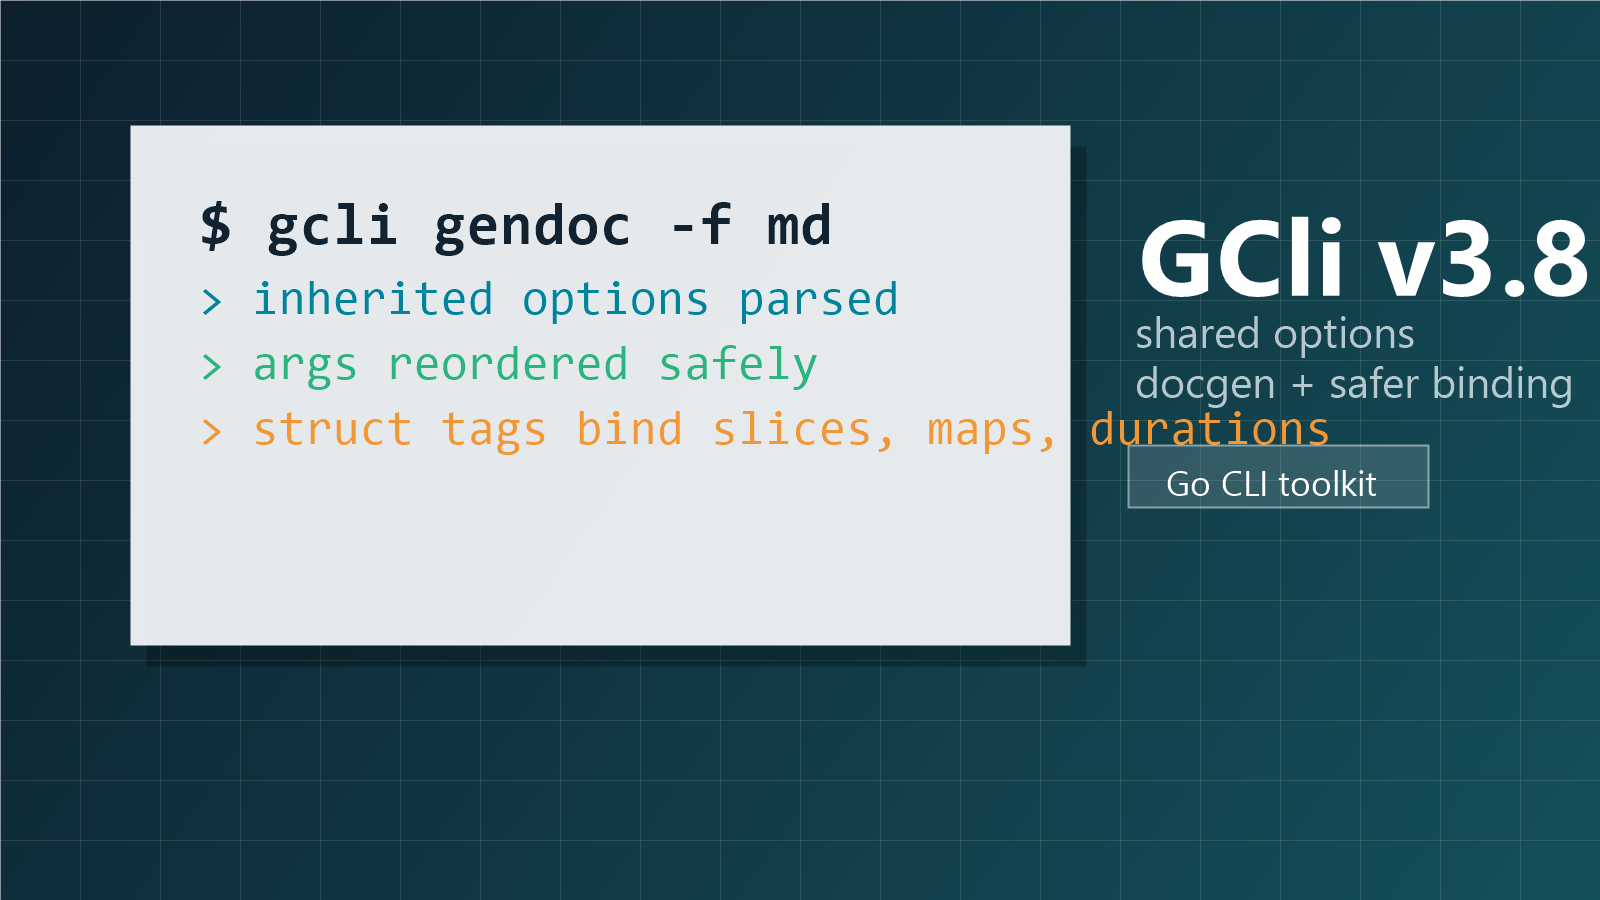
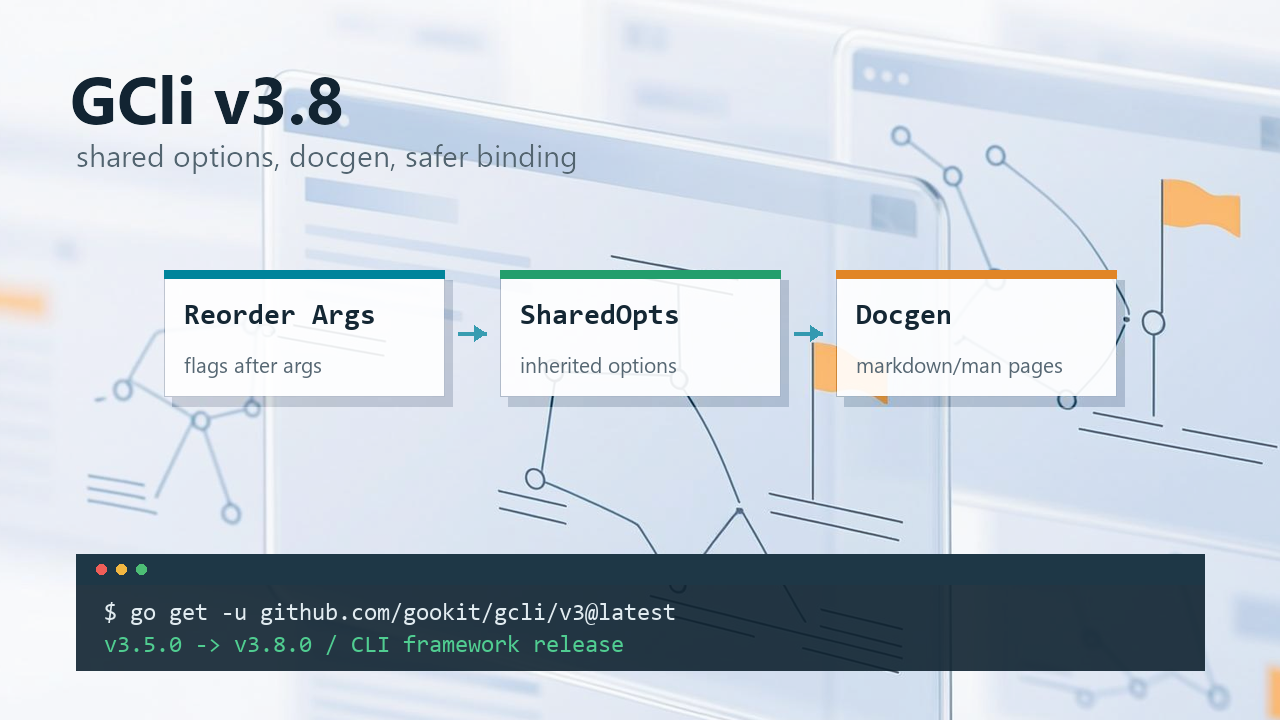
Update GLM poster generation and home header art

diff --git a/.agents/skills/glm-blog-poster/scripts/make_poster.py b/.agents/skills/glm-blog-poster/scripts/make_poster.py
@@ -70,12 +70,36 @@ def validate_glm_size(value: str) -> None:
         raise SystemExit(f"--glm-size exceeds 2^22 pixels, got: {value}")
 
 
-def request_glm_image(prompt: str, size: str, out_bg: Path) -> Image.Image:
+def parse_crop(value: str) -> tuple[int, int, int, int]:
+    try:
+        parts = [int(part.strip()) for part in value.split(",")]
+    except ValueError as err:
+        raise SystemExit(f"--bg-crop must use left,top,right,bottom pixels, got: {value}") from err
+    if len(parts) != 4 or any(part < 0 for part in parts):
+        raise SystemExit(f"--bg-crop must use four non-negative pixel values, got: {value}")
+    return parts[0], parts[1], parts[2], parts[3]
+
+
+def crop_background(img: Image.Image, crop: tuple[int, int, int, int]) -> Image.Image:
+    left, top, right, bottom = crop
+    if not any(crop):
+        return img
+    if left + right >= img.width or top + bottom >= img.height:
+        raise SystemExit(f"--bg-crop is larger than source image size {img.size}")
+    return img.crop((left, top, img.width - right, img.height - bottom))
+
+
+def request_glm_image(prompt: str, size: str, out_bg: Path, watermark_enabled: bool) -> Image.Image:
     token = os.getenv("BIGMODEL_API_KEY")
     if not token:
         raise SystemExit("BIGMODEL_API_KEY is missing. Put it in project .env or the shell environment.")
 
-    payload = json.dumps({"model": "glm-image", "prompt": prompt, "size": size}).encode("utf-8")
+    payload = json.dumps({
+        "model": "glm-image",
+        "prompt": prompt,
+        "size": size,
+        "watermark_enabled": watermark_enabled,
+    }).encode("utf-8")
     req = urllib.request.Request(
         API_URL,
         data=payload,
@@ -166,6 +190,7 @@ def overlay(img: Image.Image, args: argparse.Namespace, size: tuple[int, int]) -
     draw.text((76, 134), args.subtitle, font=sub_font, fill=(82, 100, 112, 255))
 
     flow = [part.strip() for part in args.flow.split("|") if part.strip()]
+    flow_subtitles = [part.strip() for part in args.flow_subtitles.split("|") if part.strip()]
     card_w, card_h, gap = 280, 126, 56
     total = len(flow) * card_w + max(0, len(flow) - 1) * gap
     x = max(54, (w - total) // 2)
@@ -176,7 +201,7 @@ def overlay(img: Image.Image, args: argparse.Namespace, size: tuple[int, int]) -
         x2 = x1 + card_w
         draw_card(draw, (x1, y, x2, y + card_h), colors[idx % len(colors)])
         draw.text((x1 + 20, y + 32), label, font=mono_bold, fill=(20, 39, 52, 255))
-        sub = ["current writer", "rotated file", "compressed", "cleaned"][min(idx, 3)]
+        sub = flow_subtitles[idx] if idx < len(flow_subtitles) else ["current writer", "rotated file", "compressed", "cleaned"][min(idx, 3)]
         draw.text((x1 + 20, y + 80), sub, font=small, fill=(86, 103, 115, 255))
         if idx < len(flow) - 1:
             ax1 = x2 + 14
@@ -199,9 +224,10 @@ def overlay(img: Image.Image, args: argparse.Namespace, size: tuple[int, int]) -
 def main() -> int:
     parser = argparse.ArgumentParser(description="Generate a GLM blog poster with deterministic local text overlay.")
     parser.add_argument("--prompt", help="Prompt for GLM background. Ask for no text/logos/watermarks.")
-    parser.add_argument("--title", required=True)
+    parser.add_argument("--title", default="")
     parser.add_argument("--subtitle", default="")
     parser.add_argument("--flow", default="app.log|app.20260624.log|app.20260624.log.gz")
+    parser.add_argument("--flow-subtitles", default="")
     parser.add_argument("--command", default="filecleaner --dry-run -c filecleaner.json")
     parser.add_argument("--note", default="keep 7 days / max 20 backups")
     parser.add_argument("--size", default="1280x720", help="Final poster size.")
@@ -213,6 +239,9 @@ def main() -> int:
     parser.add_argument("--out", required=True)
     parser.add_argument("--bg-out", default="output/imagegen/poster-bg.png")
     parser.add_argument("--from-bg", help="Reuse an existing raw background image and only redraw the local text overlay.")
+    parser.add_argument("--bg-crop", default="0,0,0,0", help="Crop raw background before overlay: left,top,right,bottom pixels.")
+    parser.add_argument("--background-only", action="store_true", help="Save the cropped background as --out without local text overlay.")
+    parser.add_argument("--watermark", action="store_true", help="Enable GLM watermark. Default is disabled.")
     parser.add_argument("--local-only", action="store_true", help="Skip GLM and use a generated local background.")
     args = parser.parse_args()
 
@@ -220,6 +249,7 @@ def main() -> int:
     load_env(root)
     width, height = parse_size(args.size, "--size")
     size = (width, height)
+    bg_crop = parse_crop(args.bg_crop)
     out = Path(args.out)
     bg_out = Path(args.bg_out)
 
@@ -233,9 +263,15 @@ def main() -> int:
         if not args.prompt:
             raise SystemExit("--prompt is required unless --from-bg or --local-only is used.")
         validate_glm_size(args.glm_size)
-        bg = request_glm_image(args.prompt, args.glm_size, bg_out)
+        bg = request_glm_image(args.prompt, args.glm_size, bg_out, args.watermark)
 
-    final = overlay(bg, args, size)
+    bg = crop_background(bg, bg_crop)
+    if args.background_only:
+        final = cover_crop(bg, size)
+    else:
+        if not args.title:
+            raise SystemExit("--title is required unless --background-only is used.")
+        final = overlay(bg, args, size)
     out.parent.mkdir(parents=True, exist_ok=True)
     final.save(out)
     print(out)

diff --git a/.agents/skills/glm-blog-poster/SKILL.md b/.agents/skills/glm-blog-poster/SKILL.md
@@ -2,12 +2,14 @@
 name: glm-blog-poster
 description: Generate reusable technical blog poster images with GLM Image backgrounds plus local deterministic text overlays. Use when creating article cover images, blog hero posters, release post graphics, or technical diagrams that need AI visual polish but accurate titles, commands, file names, or flow labels.
 metadata:
-  version: 0.1.0
+  version: 0.2.0
 ---
 
 # GLM Blog Poster
 
 Use `scripts/make_poster.py` to generate a background with BigModel `glm-image`, then overlay accurate text locally with Pillow. This keeps model-generated visual texture separate from exact article text, commands, package names, and file names.
+
+GLM requests send `watermark_enabled: false` by default. Pass `--watermark` only when a watermark is explicitly wanted.
 
 ## Workflow
 
@@ -36,6 +38,7 @@ python .agents/skills/glm-blog-poster/scripts/make_poster.py \
 ```bash
 python .agents/skills/glm-blog-poster/scripts/make_poster.py \
   --from-bg output/imagegen/rotatefile-glm-bg.png \
+  --bg-crop 0,0,220,120 \
   --title "rotatefile" \
   --subtitle "log rotation, gzip, and cleanup for Go" \
   --flow "app.log|app.20260624.log|app.20260624.log.gz" \
@@ -71,5 +74,7 @@ For a final `1280x720` poster, use these candidate background sizes:
 - Ask the image model for a background with no text, no logos, and no watermark.
 - Put exact text, commands, package names, versions, and file names in the local overlay, not in the model prompt.
 - Keep raw GLM output images under `output/imagegen/` and reuse them with `--from-bg` when only the overlay text changes.
+- If the GLM background has a corner watermark, reuse the raw image with `--bg-crop left,top,right,bottom` to crop that edge before overlay.
+- Use `--background-only` for square or small header images that should not have local overlay text.
 - Use `--local-only` for quick validation when no API key is available.
 - Keep generated project assets under `static/img/blog/` unless the user names another destination.

diff --git a/content/_index.md b/content/_index.md
@@ -3,7 +3,7 @@ title = "Latest posts"
 sort_by = "date"
 
 [extra]
-header = {title = "Hello! I'm Inhere", img = "img/avatar.jpg", img_alt = "hello" }
+header = {title = "Hello! I'm Inhere", img = "img/home-header-poster.png", img_alt = "Developer workspace illustration" }
 section_path = "blog/_index.md"
 max_posts = 4
 projects_path = "projects/_index.md"